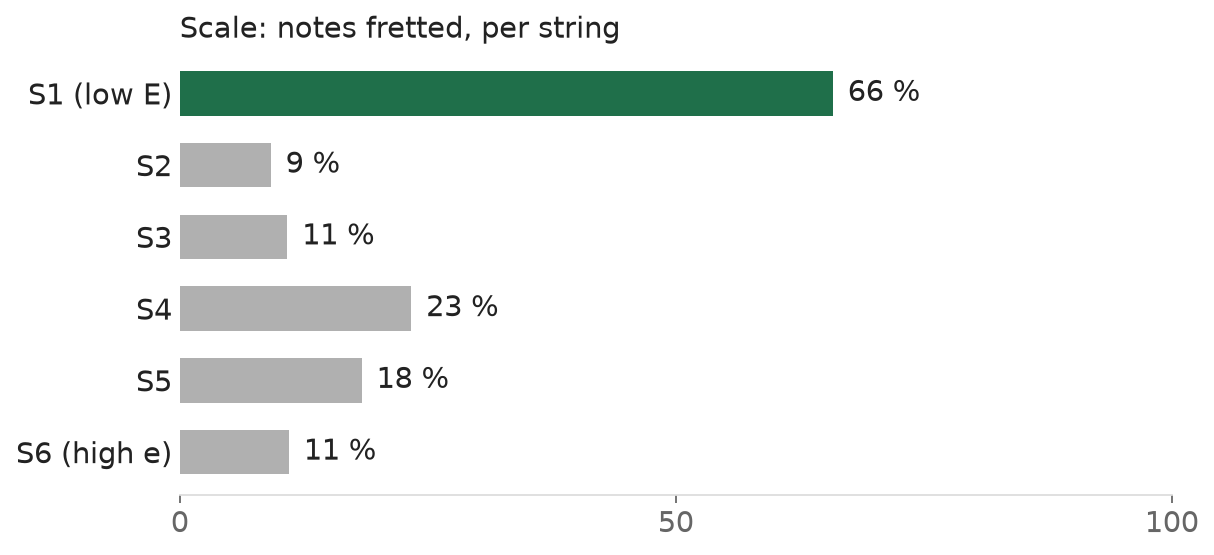
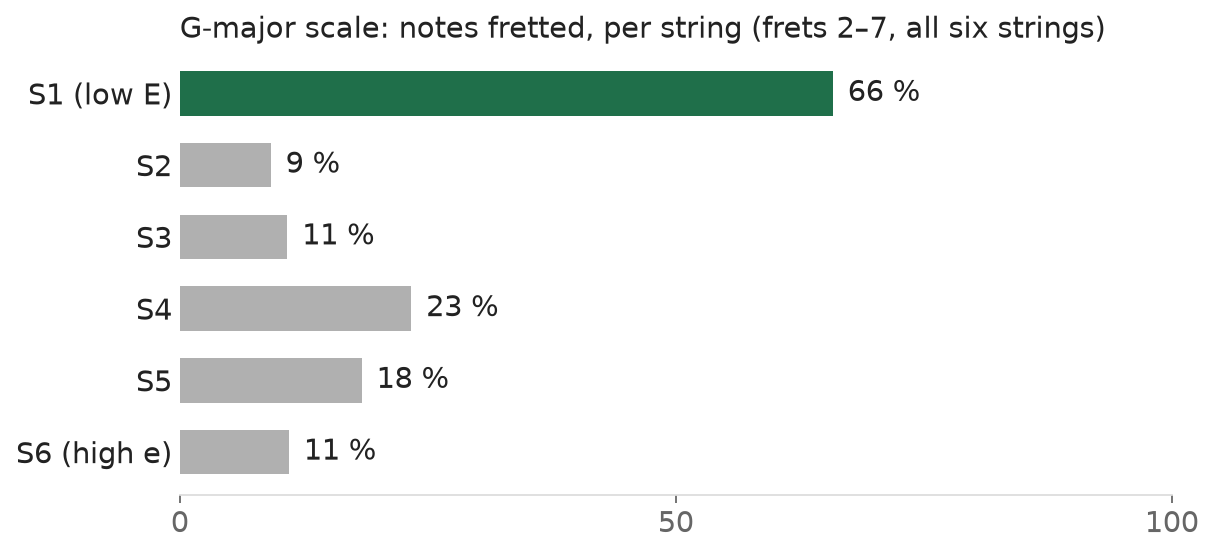
Hub 11-06: name the scale (G major) everywhere
Claude-Session: https://claude.ai/code/session_01XaxYq4Ba2HDRj4xyWSgLCk

Changed region(s): [[0.1524, 0.0306, 0.9143, 0.0919]]

diff --git a/projects/dexterous-guitar-hub-1106.html b/projects/dexterous-guitar-hub-1106.html
@@ -73,10 +73,10 @@ td.ok{color:var(--ok);font-weight:600} td.bad{color:var(--bad);font-weight:600} 
 
 <div class="wrap">
   <div class="crumb"><a href="dexterous-guitar-hub-1030.html">← week of 10-24 → 10-30</a> · Stanford Movement Lab · dex-project · week of 2026-10-31 → 11-06</div>
-  <h1>House plays. The scale does not press yet. We need more iterations.</h1>
+  <h1>House plays. The G-major scale does not press yet. We need more iterations.</h1>
   <div class="chips">
     <span class="chip ok">House · 8 / 8 presses · note F1 0.51</span>
-    <span class="chip warn">Scale · 16 / 70 presses · note F1 0.05</span>
+    <span class="chip warn">G-major scale · 16 / 70 presses · note F1 0.05</span>
     <span class="chip bad">Blocker · 5 GPU-hours per experiment</span>
   </div>
   <p class="note">Mean policy · 10 worlds · guitar offset ±5 mm / ±2° · pushed twice with 40 N · whole piece from t = 0 · sound = what the policy played.</p>
@@ -93,7 +93,7 @@ td.ok{color:var(--ok);font-weight:600} td.bad{color:var(--bad);font-weight:600} 
       </div>
     </div>
     <div class="card">
-      <div class="badge prog">G-MAJOR SCALE · 47 s · 70 notes</div>
+      <div class="badge prog">G-MAJOR SCALE · frets 2–7, all six strings · 47 s · 70 notes</div>
       <div class="vids"><figure class="one"><video controls playsinline preload="metadata" src="../assets/guitar-hub/videos/scale_s231_ck12_perturbed_w09_fourview_played_audio_rt.mp4"></video><figcaption>Perturbed world. Sound on: mostly wrong notes.</figcaption></figure></div>
       <div class="tiles">
         <div class="tile warn"><div class="v">16 / 70</div><div class="k">presses (was 10)</div></div>
@@ -106,7 +106,7 @@ td.ok{color:var(--ok);font-weight:600} td.bad{color:var(--bad);font-weight:600} 
   <h2>Four metrics</h2>
   <div class="card">
     <div class="tw"><table>
-      <tr><th>Metric</th><th>House</th><th>Scale</th><th>Target</th></tr>
+      <tr><th>Metric</th><th>House</th><th>G-major scale</th><th>Target</th></tr>
       <tr><td><b>Pressed what it should</b></td><td class="ok">8 / 8</td><td class="bad">16 / 70</td><td>all</td></tr>
       <tr><td>↳ sounds right (note F1)</td><td class="warn">0.51</td><td class="bad">0.05</td><td>≥ 0.8</td></tr>
       <tr><td><b>Touched nothing it should not</b> (clean moves)</td><td class="bad">20 %</td><td class="bad">7 %</td><td>100 %</td></tr>
@@ -129,18 +129,18 @@ td.ok{color:var(--ok);font-weight:600} td.bad{color:var(--bad);font-weight:600} 
   <h2>Open problems, not solved yet</h2>
   <div class="grid">
     <div class="card wide blk">
-      <div class="t">1 · Left hand: the whole hand shifts to the bass side; the index lands one string off</div>
+      <div class="t">1 · Left hand (G-major scale): the whole hand shifts to the bass side; the index lands one string off</div>
       <div class="grid">
         <figure style="margin:0"><img src="../assets/guitar-hub/figures/scale_s231_press_by_string_1106.png" alt="share of notes fretted per string" style="width:100%;border-radius:6px;border:1px solid var(--line)"></figure>
         <figure style="margin:0"><img src="../assets/guitar-hub/figures/lateral_offset_scale_vs_house_1106.png" alt="lateral landing offset" style="width:100%;border-radius:6px;border:1px solid var(--line)"></figure>
       </div>
     </div>
     <div class="card wide blk b2">
-      <div class="t">2 · Right hand: rushes and misses</div>
+      <div class="t">2 · Right hand (both pieces): rushes and misses</div>
       <div class="tiles" style="margin-top:0">
-        <div class="tile warn"><div class="v">33 %</div><div class="k">scale notes 50–120 ms early / late</div></div>
+        <div class="tile warn"><div class="v">33 %</div><div class="k">G-major scale notes 50–120 ms early / late</div></div>
         <div class="tile warn"><div class="v">25 ms</div><div class="k">median: early</div></div>
-        <div class="tile warn"><div class="v">16 %</div><div class="k">scale notes not plucked</div></div>
+        <div class="tile warn"><div class="v">16 %</div><div class="k">G-major scale notes not plucked</div></div>
         <div class="tile bad"><div class="v">29 %</div><div class="k">House plucks missed</div></div>
       </div>
     </div>
@@ -149,14 +149,14 @@ td.ok{color:var(--ok);font-weight:600} td.bad{color:var(--bad);font-weight:600} 
   <h2>Found this week</h2>
   <div class="grid">
     <div class="card">
-      <div class="t">A per-note landing trick helps the scale and hurts House → each piece keeps its own setting</div>
+      <div class="t">A per-note landing trick helps the G-major scale and hurts House → each piece keeps its own setting</div>
       <div class="tiles" style="margin-top:0">
-        <div class="tile ok"><div class="v">10 → 16</div><div class="k">scale presses, with the trick</div></div>
+        <div class="tile ok"><div class="v">10 → 16</div><div class="k">G-major scale presses, with the trick</div></div>
         <div class="tile bad"><div class="v">0.51 → 0.44</div><div class="k">House note F1, with the trick</div></div>
       </div>
     </div>
     <div class="card">
-      <div class="t">Why the scale sounds wrong even when a note is pressed</div>
+      <div class="t">Why the G-major scale sounds wrong even when a note is pressed</div>
       <div class="tiles" style="margin-top:0">
         <div class="tile warn"><div class="v">33 %</div><div class="k">plucked early / late</div></div>
         <div class="tile bad"><div class="v">29 %</div><div class="k">wrong fret</div></div>
